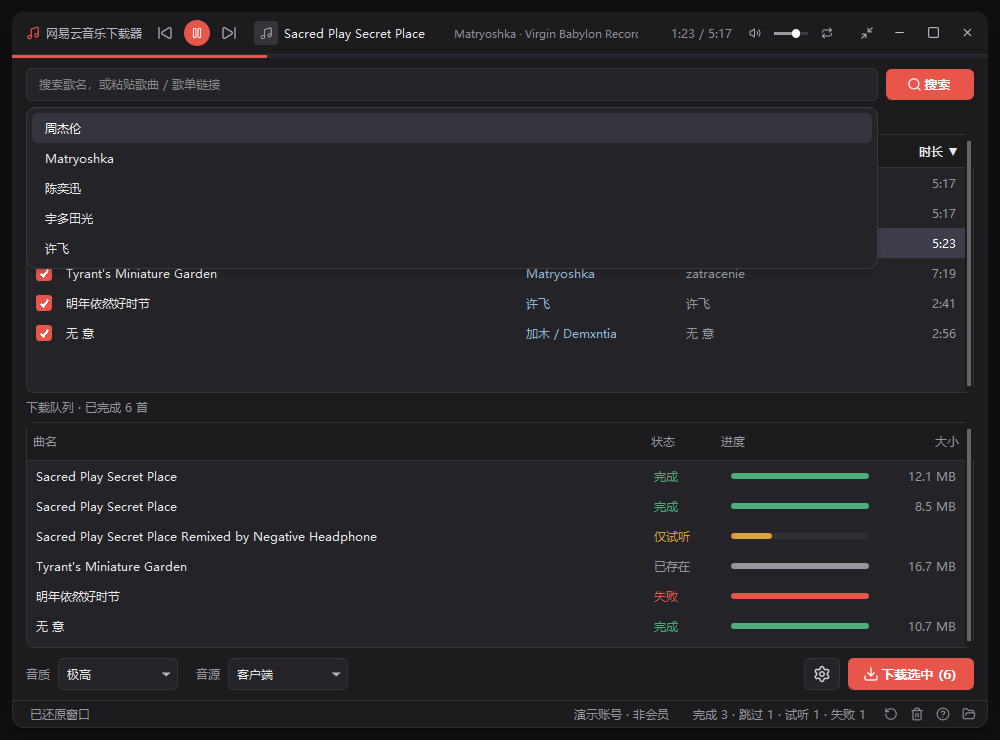
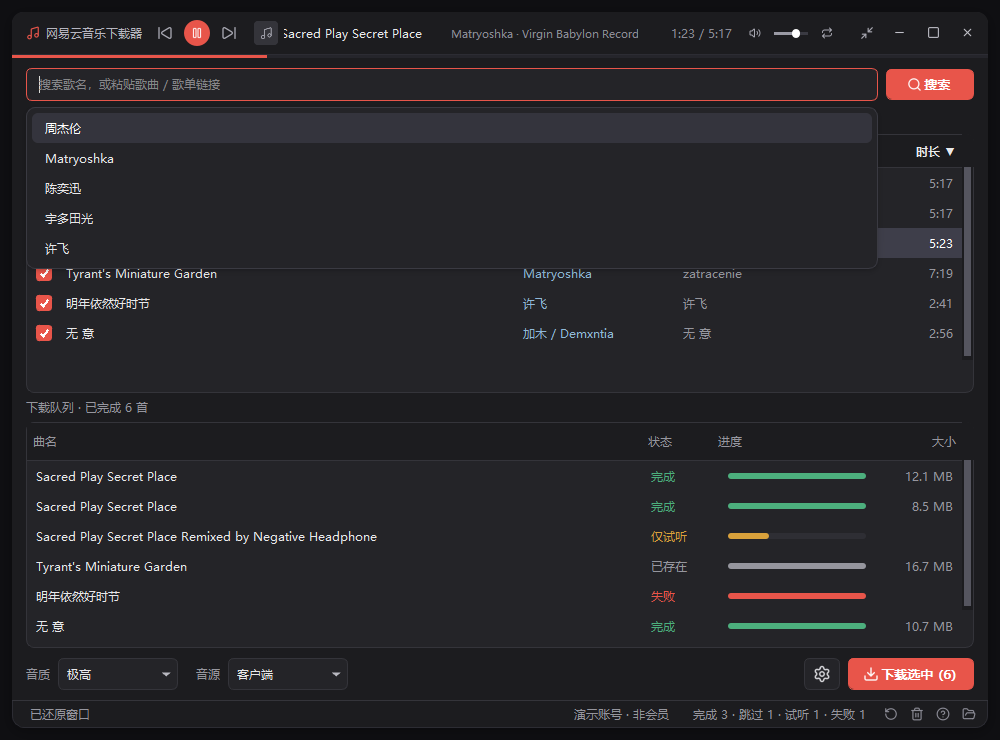
滚动条加粗常驻可见，音质列空列表也保留
- 滚动条 8px→11px，实色圆角滑块，不再依赖悬停才显示
- 音质列在缓存视图常驻，清空列表后列宽不再跳动
- 空状态提示改为有数据优先收起，修掉「正在扫描」压在行上的问题

diff --git a/gui/main.py b/gui/main.py
@@ -1781,8 +1781,6 @@ class MainWindow(QMainWindow):
 
     def _apply_view(self) -> None:
         """按当前关键词与排序方式，把当前音源的数据渲染到表格。"""
-        # 音质只有缓存视图知道（来自 .uc 文件名），其它视图藏起来，别留空列
-        self.result_table.setColumnHidden(5, self._current_source() != "cache")
         pool = self._pool()
         if pool is None:
             self.songs = []
@@ -1822,12 +1820,13 @@ class MainWindow(QMainWindow):
         self._update_download_button()
 
     def _update_empty_hint(self) -> None:
+        # 先看有没有数据：有行在就必须收起提示，否则会压在行上面
+        if self.songs:
+            self.empty_hint.hide()
+            return
         if self._scanning_cache:
             self.empty_hint.setText("正在扫描本地缓存…")
             self.empty_hint.show()
-            return
-        if self.songs:
-            self.empty_hint.hide()
             return
         keyword = self.input.text().strip()
         if self._list_cleared and not keyword:
@@ -2194,9 +2193,12 @@ class MainWindow(QMainWindow):
 
     def _fill_result_table(self) -> None:
         table = self.result_table
-        # 音质列只在真的有数据时显示：别的音源没有码率信息，留个空列很难看
-        has_rate = any(self._cache_rates.get(song.id) for song in self.songs)
-        table.setColumnHidden(5, not has_rate)
+        # 音质列：缓存视图常驻（空表也留着，否则列宽会跟着有没有数据来回跳），
+        # 其它音源没有码率信息，就别占一列空的
+        show_quality = self._current_source() == "cache" or any(
+            self._cache_rates.get(song.id) for song in self.songs
+        )
+        table.setColumnHidden(5, not show_quality)
         table.blockSignals(True)
         table.setRowCount(len(self.songs))
         for row, song in enumerate(self.songs):

diff --git a/gui/style.py b/gui/style.py
@@ -234,23 +234,22 @@ QWidget#barHolder {{
 }}
 
 QScrollBar:vertical {{
-    /* 平时几乎看不见：内容只多出一两行时滑块本来就接近满长，
-       画成实心就成了「一根贯穿表格的竖线」。悬停时才显现。 */
-    background: transparent;
-    width: 8px;
-    margin: 6px 2px;
-    border-radius: 4px;
+    /* 常驻可见：太细太淡会看不见。宽度留给圆角滑块，上下留一点不让它顶满 */
+    background: rgba(255, 255, 255, 0.04);
+    width: 11px;
+    margin: 4px 2px;
+    border-radius: 5px;
 }}
 QScrollBar::handle:vertical {{
-    background: rgba(255, 255, 255, 0.09);
-    border-radius: 3px;
-    min-height: 24px;
+    background: #55555f;
+    border-radius: 4px;
+    min-height: 28px;
 }}
-QScrollBar:hover::handle:vertical {{
-    background: rgba(255, 255, 255, 0.26);
+QScrollBar::handle:vertical:hover {{
+    background: #6e6e7c;
 }}
 QScrollBar::handle:vertical:pressed {{
-    background: rgba(255, 255, 255, 0.36);
+    background: #85859a;
 }}
 QScrollBar::add-line:vertical, QScrollBar::sub-line:vertical,
 QScrollBar::add-page:vertical, QScrollBar::sub-page:vertical {{

diff --git a/CHANGELOG.md b/CHANGELOG.md
@@ -12,9 +12,11 @@
   `qt_scrollarea_vcontainer` 的几何压到表头下方，再用同色补丁补齐表头右侧那条缝。
 - **空表不显示滚动条**：行数为 0 时滚动范围是 0，滑块会铺满整条槽，看着像一根
   贯穿的竖线。现在按行数自动切换显示策略。
-- **竖向滚动条改为悬停显现**：内容只多出一两行时滑块本来就接近满长，配上透明槽就成了
-  「一根贯穿表格的竖线」。改成平时几乎透明、鼠标移上去才显现，并给滑块上下留白。
-- 表格重新填充时同步刷新空状态提示，避免提示文字压在列表行上。
+- **竖向滚动条改为常驻可见**：11px 宽、圆角滑块，平时就是实色（`#55555f`），悬停更亮。
+  之前为了压掉「贯穿竖线」而做成几乎透明，结果太细太淡看不清。
+- **音质列在缓存视图常驻**：哪怕列表为空也保留表头，否则列宽会跟着有没有数据来回跳。
+  客户端/网页搜索结果没有码率信息，仍然隐藏。
+- 空状态提示改为「有数据就先收起」，避免「正在扫描…」压在已有行上。
 
 ## v1.1.0 — 2026-11-05
 
